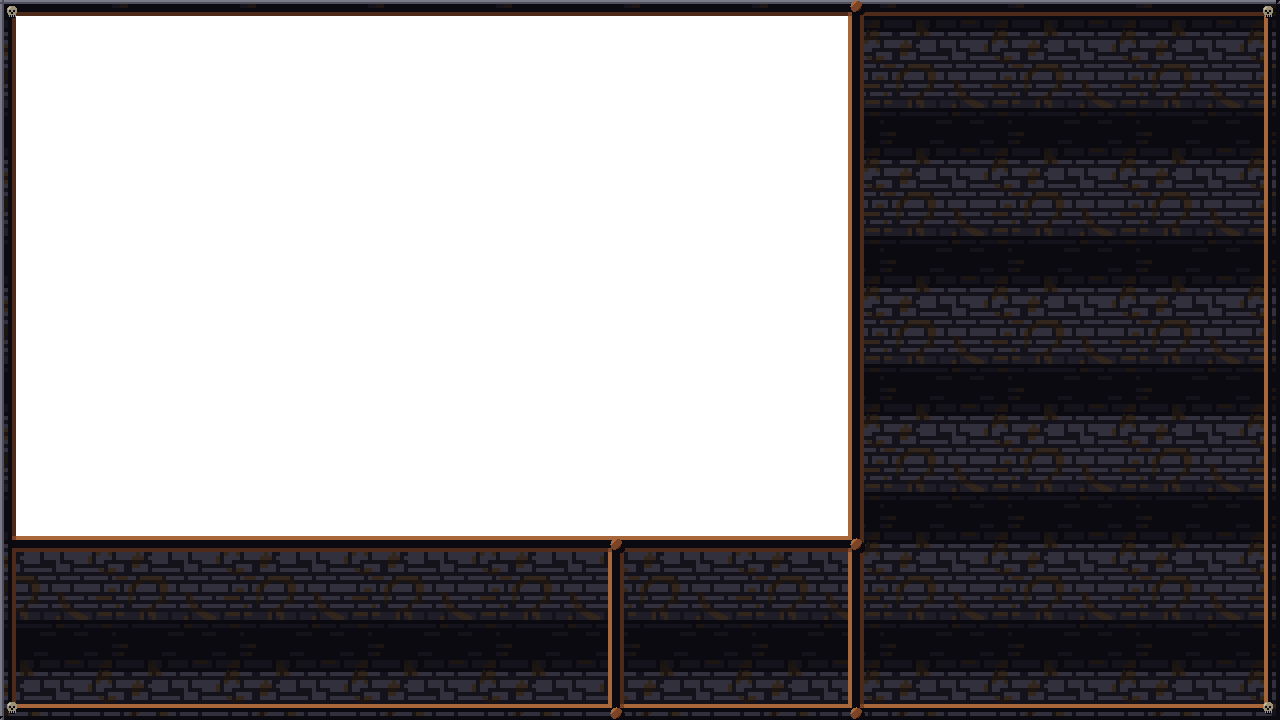
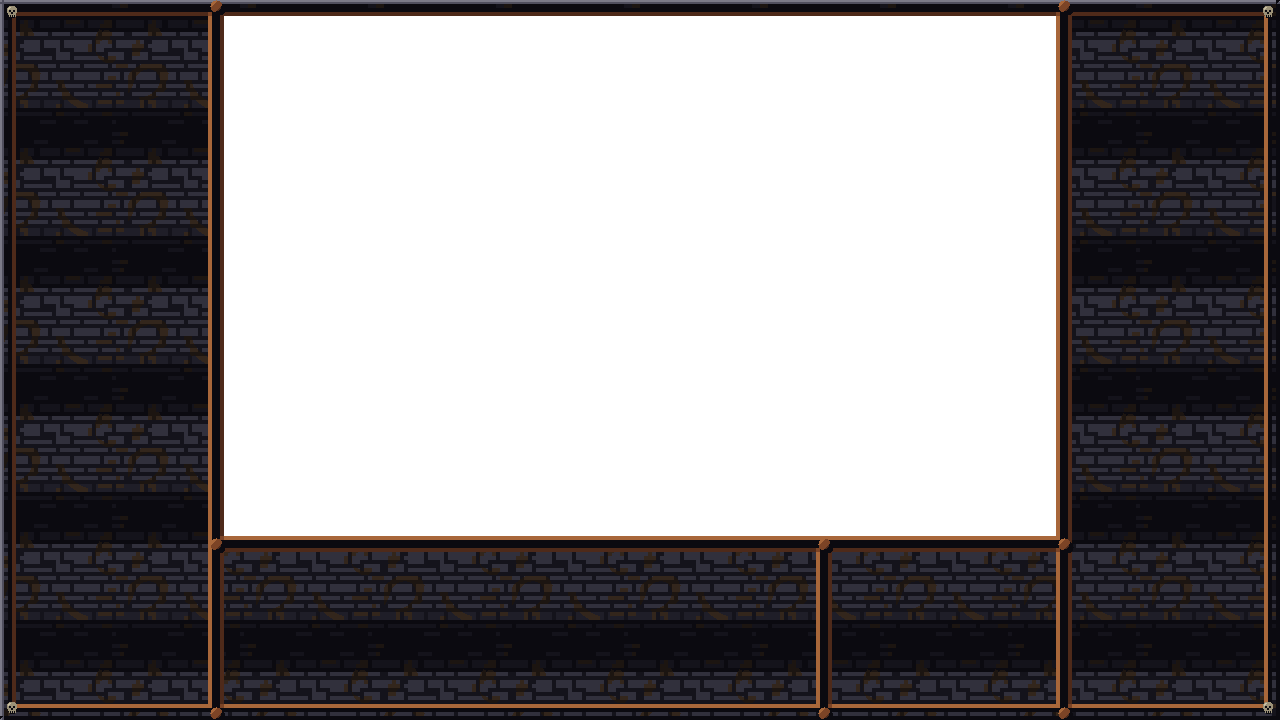
Six-hero screen layout: the 3D view in the middle, three hero panels down each side
ui_layout.gd: VIEW at 112,8 (same 416x260), log and arrows under it, PARTY_LEFT and PARTY_RIGHT columns, PARTY_SLOTS 6, panel_rect(pos) (even positions left, odd right; the front row is the top pair). Party panels are 96x112: name across the top, portrait (52), bars and quick slots (26) on the left, the two hands (36) stacked on the right; positions 4 and 5 are empty panels, the party is still four heroes and Party is unchanged. The spell list opens beside its caster's panel. Stone frame and wooden frame redrawn for the new rectangles; corner map moved with the view. PixelLab mock-ups noted in the asset log. Docs.

Changed region(s): [[0.625, 0.0, 0.8438, 1.0], [0.0, 0.0, 0.1875, 1.0], [0.4688, 0.7333, 0.5, 1.0]]

diff --git a/tools/art/gen_frame_hd.py b/tools/art/gen_frame_hd.py
@@ -18,10 +18,11 @@ from palette import PAL
 K = 2                                   # Canvas units to texture pixels.
 W, H = 640 * K, 360 * K
 # scripts/ui_layout.gd's rectangles (x, y, w, h), canvas units.
-VIEW = (8, 8, 416, 260)
-LOG = (8, 276, 296, 76)
-ARROWS = (312, 276, 112, 76)
-PARTY = (432, 8, 200, 344)
+VIEW = (112, 8, 416, 260)
+LOG = (112, 276, 296, 76)
+ARROWS = (416, 276, 112, 76)
+PARTY_LEFT = (8, 8, 96, 344)            # The six-hero layout: a column of three hero panels each side of the view.
+PARTY_RIGHT = (536, 8, 96, 344)
 RING = 4                                # Each ring of a window's lip, in pixels.
 INK = PAL["ink"]
 TILE = Path(__file__).parent / "pieces" / "frame_stone_128.png"
@@ -130,14 +131,16 @@ def frame():
     panel = img.copy()  # The recessed panels' floor is the same blackened brick.
     recess(img, ARROWS, panel)
     recess(img, LOG, panel)
-    recess(img, PARTY, panel)
+    recess(img, PARTY_LEFT, panel)
+    recess(img, PARTY_RIGHT, panel)
     recess(img, VIEW, None)
     outer_bevel(img)
     # Studs at the T-junctions of the dividers (the corners get skulls).
-    x_div = (VIEW[0] + VIEW[2] + PARTY[0]) // 2 * K          # Between the view and the party well.
+    x_div = (VIEW[0] + VIEW[2] + PARTY_RIGHT[0]) // 2 * K    # Between the view and the right party well.
+    x_left = (PARTY_LEFT[0] + PARTY_LEFT[2] + VIEW[0]) // 2 * K  # Between the left party well and the view.
     y_div = (VIEW[1] + VIEW[3] + LOG[1]) // 2 * K            # Between the view and the log.
     x_mid = (LOG[0] + LOG[2] + ARROWS[0]) // 2 * K           # Between the log and the arrows.
-    for cx, cy in ((x_div, 6), (x_div, H - 7), (x_div, y_div), (x_mid, y_div), (x_mid, H - 7)):
+    for cx, cy in ((x_div, 6), (x_div, H - 7), (x_div, y_div), (x_left, 6), (x_left, H - 7), (x_left, y_div), (x_mid, y_div), (x_mid, H - 7)):
         rivet(img, cx, max(cy, 6) if cy < 20 else min(cy, H - 7))
     for x0, y0 in ((6, 6), (W - 18, 6), (6, H - 18), (W - 18, H - 18)):
         skull(img, x0, y0)

diff --git a/tools/art/gen_frame_wood.py b/tools/art/gen_frame_wood.py
@@ -26,7 +26,8 @@ from palette import PAL
 
 K = 2
 W, H = 640 * K, 360 * K
-VIEW = (8, 8, 416, 260)               # scripts/ui_layout.gd, canvas units.
+VIEW = (112, 8, 416, 260)             # scripts/ui_layout.gd, canvas units.
+ORIGIN = (VIEW[0] - 8, VIEW[1] - 8)   # Where the 432x276 canvas (the view and its 8 unit surround) sits on the screen.
 CW, CH = 432, 276                     # The view and its surround, canvas units.
 PIECES = Path(__file__).parent / "pieces" / "frame_wood"
 THICK = 16
@@ -180,11 +181,12 @@ def frame_wood(seed=SEED):
         stack += [(x + 1, y), (x - 1, y), (x, y + 1), (x, y - 1)]
     xs, ys = [x for x, _ in seen], [y for _, y in seen]
     box = (min(xs), min(ys), max(xs) + 1, max(ys) + 1)
+    box = (box[0] + ORIGIN[0], box[1] + ORIGIN[1], box[2] + ORIGIN[0], box[3] + ORIGIN[1])
     assert box[0] >= VIEW[0] and box[1] >= VIEW[1] and box[2] <= VIEW[0] + VIEW[2] and box[3] <= VIEW[1] + VIEW[3], box
     print("opening", box, "of the view", (VIEW[0], VIEW[1], VIEW[0] + VIEW[2], VIEW[1] + VIEW[3]))
     big = img.resize((CW * K, CH * K), Image.NEAREST)
     out = Image.new("RGBA", (W, H))
-    out.paste(big, (0, 0))
+    out.paste(big, (ORIGIN[0] * K, ORIGIN[1] * K))
     return out
 
 

diff --git a/CLAUDE.md b/CLAUDE.md
@@ -10,7 +10,7 @@ A first-person, grid-based dungeon crawler in the style of Eye of the Beholder, 
 
 - **Base resolution is 640x360** (`project.godot`: `stretch/mode = canvas_items` (it was `viewport` until the hires move, now merged), `scale_mode = integer`, default canvas texture filter nearest, window override 1280x720). The window scales it by whole numbers only (1280x720, 1920x1080, 2560x1440; a window that isn't an exact multiple gets even letterbox bars), so pixels are never blurred or uneven.
 - **HIRES RENDERING (the 1280x720 move, merged into `main` from the `hires-720` branch):** the UI is still laid out in 640x360 units, but `canvas_items` stretch draws every 2D thing (frame, panels, text, icons) at the window's whole-number scale k (2 at 1280x720, 3 at 1080p, 4 at 1440p) with real, sharp pixels, and `scripts/ui_scale.gd` makes the 3D view's SubViewport render at k times 416x260 (832x520 at k = 2) by sizing its container k times larger and drawing it at 1/k. Mouse positions stay in 640x360 units. `UiScale.factor(tree)` is the scale; `view_scale` metadata on the SubViewport holds it; `enemy_bars.gd` divides by it and its layer is scaled by it. Art made for more pixels is shown at 1/k of its pixel size in UI units (a 96 px icon in a 48 unit box) and lands 1:1. The art itself is still the old art (nothing was regenerated in step 1). The main menu's 3D backdrop is hidden (title picture instead) and was not converted.
-- **The dungeon view is a `SubViewport` rendered at the size it is shown, 416x260 (1:1, `VIEW_SCALE` 1)** (the logical size; the SubViewport itself renders at k times that, see above), in the top-left (`ui_layout.gd`: `VIEW_SOURCE`, `VIEW_SCALE`, `VIEW`, 416x260 at 8,8), with nearest filtering. It used to be rendered at 208x130 and enlarged 2x (chunky 2x2 pixels); it was doubled so monsters and textures can carry twice the detail. A skeleton standing one tile ahead is about **150 screen pixels tall** (the 64-art-pixel frame was 76 view px; now the 128-px frame is 152). The dungeon, player and camera live inside it (`View/GameView/Port`, found with `%Player` / `%Dungeon`, or by group); everything else is drawn at the full 640x360 on `CanvasLayer`s above it. The main menu's backdrop is rendered the same way (640x360, 1x).
+- **The dungeon view is a `SubViewport` rendered at the size it is shown, 416x260 (1:1, `VIEW_SCALE` 1)** (the logical size; the SubViewport itself renders at k times that, see above), in the top middle (`ui_layout.gd`: `VIEW_SOURCE`, `VIEW_SCALE`, `VIEW`, 416x260 at 112,8; it was at 8,8 until the six-hero layout), with nearest filtering. It used to be rendered at 208x130 and enlarged 2x (chunky 2x2 pixels); it was doubled so monsters and textures can carry twice the detail. A skeleton standing one tile ahead is about **150 screen pixels tall** (the 64-art-pixel frame was 76 view px; now the 128-px frame is 152). The dungeon, player and camera live inside it (`View/GameView/Port`, found with `%Player` / `%Dungeon`, or by group); everything else is drawn at the full 640x360 on `CanvasLayer`s above it. The main menu's backdrop is rendered the same way (640x360, 1x).
 - **UI art is drawn at 2x**: each logical art pixel is a 2x2 block (the dungeon view is no longer the same pixel size: it is finer). The generators draw on the small logical grid and enlarge it by `scale` (`artio.save_png(..., scale=2)`; `python tools/art/build_all.py --scale 2`, the default; generators whose `build()` takes `scale`: frame, ui, portraits, items). **3D art has its own scale, `--world-scale` (default 2, `artio.world_scale()`, env `ART_WORLD_SCALE`)**: the wall/floor/ceiling/door/plate/stairs tiles are 128x128 and the monster frames 96x128 (skeleton, guard) / 96x96 (slime, acid slime), enlarged nearest-neighbour from the procedural grid, and **monster `pixel_size` is halved in the `.tres` files (skeleton 0.014, slime 0.02) so they keep their world size**; if you change the world scale, change those too. The variant monsters are made by hand: `gen_skeleton.py --seed 7 --bone ash --weapon axe --helmet --name skeleton_guard` and `gen_slime.py --seed 5 --colour acid --contents skull --name slime_acid` (`build_all` does not run them). The item floor sprites (48x48), torch, lever and key sprites are NOT doubled. Place UI at **even pixel coordinates** so its 2x2 blocks line up with the frame's. Text is Press Start 2P at 8 or 16 (a project-wide default font, `gui/theme/custom_font`).
 - **Display modes** (`display_manager.gd`, the `DisplayManager` autoload in `project.godot`; `Settings.fullscreen`, saved under `[display]` in `user://settings.cfg`): the game starts in **borderless fullscreen** (`Window.MODE_FULLSCREEN`, not exclusive) unless the saved choice is windowed. Alt+Enter toggles at any time (the autoload runs while paused), as does the Options button, which listens to `mode_changed`. Windowed opens at the largest whole multiple of 640x360 that fits the screen's usable area including the title bar (`DisplayManager.best_scale(usable, extra)`, measured after a frame because the decorations only exist then), centred. Leftover screen is black bars in both modes (integer scale; the engine's own transform maps clicks, bars included, so no input code was needed). Nothing happens under `--headless`. In a `-s` SceneTree test, autoloads join the tree *after* `_init`, so `await process_frame` before using `root.get_node("DisplayManager")`; tests of display switching must set `Settings.path` to a temp file first, and run windowed (not headless).
 - Mouse positions are in the 640x360 space everywhere. The 3D view's clicks come from the `SubViewportContainer`'s `gui_input` (`game_view.gd`, which calls `Player.world_click`), not from input forwarded into the SubViewport, so they too are screen coordinates (tested pixel by pixel at the view's corners and edges, with and without black bars). Clicks pick up or put down the item on the tile in front wherever they land in the view; monsters are not clickable (heroes attack through their hand buttons).
@@ -112,7 +112,7 @@ So the overlay, HUD and level-complete scenes can be deleted from `main.tscn` wi
 
 **News goes through the event bus** (`scripts/game_events.gd`, the autoload `GameEvents`: signals only, no logic; `docs/code_review.md` step 1). `call_group` is for commands ("do this"); the bus is for "this happened", so banter, XP, puzzles and legendary items can listen without the sender knowing them. Signals: `monster_killed(def, cell, killer)`, `hero_died(hero)`, `hero_revived(hero, by_scroll)`, `item_picked_up(def, count)`, `door_unlocked(cell)`, `lever_pulled(cell, side, on)`, `wall_broken(cell)`, `wall_purified(cell)`, `puzzle_solved(id)`, `level_completed`; `hero_hurt(hero, amount, source)`; `fight_started` and `fight_ended` (from the fight tracker, below); `mana_low(hero)` (a hero tried to cast and could not afford it). A hero is always their `hero_index` (-1: nobody). Each is sent from the one place the thing happens, with `Events.send(get_tree(), "name", [args])` (`const Events := preload("res://scripts/game_events.gd")`; quiet if the autoload is missing), and **never while a save is loading** (`restore_broken_walls` and `_purify(cell, false)` put walls back silently). A monster learns its killer from `by` in the result passed to `Monster.take_hit` (every `Party` attack sets it). Listen with `get_node("/root/GameEvents").monster_killed.connect(...)` in `_ready`. Nothing listens yet. A new kind of news is a new signal there plus one `send`, and a check in `tests/smoke_test.gd`.
 
-**Screen layout** (`ui_layout.gd`, the one place the rectangles live): the classic Eye of the Beholder arrangement on the 640x360 screen -- the 3D view top-left (`VIEW`, 416x260 at 8,8, a 416x260 SubViewport at 1x), the party at the right (`PARTY`, 2x2 panels of 98x170), the message log (`LOG`, 296x76, about four lines) and the movement arrows (`ARROWS`) along the bottom -- inside a stone frame. **`tools/art/gen_frame.py` draws `art/ui/frame.png` from the same rectangles (kept there in logical pixels, half of these: change both) and the 3D view window is the only transparent part of it**; a test checks the hole is exactly `VIEW`. The frame (`ui_frame.gd`, canvas layer 4) sits over the SubViewport's layer (1); the HUD layers are log 5, arrows and party 6, then debug overlay, inventory, cursor, end screens. World clicks (item pickup) come from `GameView`'s `gui_input` and call `Player.world_click`, so the frame and panels never pick things up. **Movement arrows** (`move_arrows.gd`, six 32x32 buttons from `gen_frame.py`) call `Player.command(kind)`, the same path the W/A/S/D/Q/E keys use; they act on `button_down` (a quick tap can't fall between frames) and repeat while held; the player ignores a command while a step is animating. **The message log** (`hud.gd`) is a history, newest line brightest, trimmed to 40 lines; `show_message(text)` appends, `show_message(text, true)` and `clear_message(only_if)` use the one-line status row under the log (item name on hover, "Heal whom?"); `Hud.last_message`/`last_tone`/`lines` are what to read in tests, `message` is only the status row. **Party panels** (`party_hud.gd`): 64x64 portraits (the art's own size), two 28x28 quick slots under them, 32x32 hand buttons (`hand_sword_small.png`), bars 6/4/4 px; content margins are 6/4/4/4 so every element lands on an even pixel; the portrait is centred by anchors, so shake tweens must return to its remembered `rest_x`, not 0. **Item icons come in three sizes**: `icon` (48x48, inventory and cursor), `hud_icon` (24x24, hand and quick slots, `ItemDef.hud_texture()`), `floor_icon` (48x48 -- the same drawing as `icon` -- the 3D sprite, not enlarged; `icon_pixel_size` is 0.01 so it keeps the world size the old 12x12 version had (the key too: 48x48 icon and floor sprite, 0.01; a forced procedural rebuild would put the old 32x32 key back, so leave imported art alone). The magic items (Scroll of Magic Missile, spellbook, holy symbol) carry a faint curse-green aura drawn round their silhouette (`curse_700` ring, dithered `moss_700` outside it); `gen_items.holy_symbol_glow` ignores it. Don't trust a `resized` signal for the first layout of an anchored child (the buff ring missed it): anchor children to fill instead. Overlays (inventory, character sheet, spell menu, end screens, main menu) are laid out natively at 640x360 with 2x-sized constants; a `CanvasLayer` `scale` was tried and rejected (full-rect Controls keep the full 640x360 size under it).
+**Screen layout** (`ui_layout.gd`, the one place the rectangles live). **THE SIX-HERO LAYOUT (14 Nov 2026) replaced the arrangement described in the rest of this paragraph and wherever older notes say the party is "at the right" in a 2x2 grid:** the 3D view is in the middle (`VIEW`, 416x260 at 112,8, the same size as before), the log (`LOG`, 112,276) and arrows (`ARROWS`, 416,276) under it, and a column of three hero panels down each side (`PARTY_LEFT` 8,8 and `PARTY_RIGHT` 536,8, each 96x344; `PARTY_SLOTS` 6; `UiLayout.panel_rect(pos)`: even positions down the left, odd down the right, so the front row, positions 0 and 1, is the top pair; `UiLayout.on_left(pos)`). The game still has four heroes, so positions 4 and 5 are empty panels (`party_hud._make_empty_panel`); nothing in `Party` changed. A panel is 96x112 (`UiLayout.PANEL_SIZE`): the name across the top, then on the left the portrait (52x52, scaled from the 128 art, so not pixel-exact), HP and mana bars and the two quick slots (26x26), and on the right the two hand buttons (36x36) one over the other. `%Panels` is a plain full-screen `Control` and each panel is placed by hand. The spell list opens beside its caster's panel, on the view's side. The corner map is at 404,38 to 516,126. `gen_frame_hd.py` and `gen_frame_wood.py` carry the same rectangles (the old 1x `gen_frame.py` does not and is stale). The older text: the classic Eye of the Beholder arrangement on the 640x360 screen -- the 3D view top-left (`VIEW`, 416x260 at 8,8, a 416x260 SubViewport at 1x), the party at the right (`PARTY`, 2x2 panels of 98x170), the message log (`LOG`, 296x76, about four lines) and the movement arrows (`ARROWS`) along the bottom -- inside a stone frame. **`tools/art/gen_frame.py` draws `art/ui/frame.png` from the same rectangles (kept there in logical pixels, half of these: change both) and the 3D view window is the only transparent part of it**; a test checks the hole is exactly `VIEW`. The frame (`ui_frame.gd`, canvas layer 4) sits over the SubViewport's layer (1); the HUD layers are log 5, arrows and party 6, then debug overlay, inventory, cursor, end screens. World clicks (item pickup) come from `GameView`'s `gui_input` and call `Player.world_click`, so the frame and panels never pick things up. **Movement arrows** (`move_arrows.gd`, six 32x32 buttons from `gen_frame.py`) call `Player.command(kind)`, the same path the W/A/S/D/Q/E keys use; they act on `button_down` (a quick tap can't fall between frames) and repeat while held; the player ignores a command while a step is animating. **The message log** (`hud.gd`) is a history, newest line brightest, trimmed to 40 lines; `show_message(text)` appends, `show_message(text, true)` and `clear_message(only_if)` use the one-line status row under the log (item name on hover, "Heal whom?"); `Hud.last_message`/`last_tone`/`lines` are what to read in tests, `message` is only the status row. **Party panels** (`party_hud.gd`): 64x64 portraits (the art's own size), two 28x28 quick slots under them, 32x32 hand buttons (`hand_sword_small.png`), bars 6/4/4 px; content margins are 6/4/4/4 so every element lands on an even pixel; the portrait is centred by anchors, so shake tweens must return to its remembered `rest_x`, not 0. **Item icons come in three sizes**: `icon` (48x48, inventory and cursor), `hud_icon` (24x24, hand and quick slots, `ItemDef.hud_texture()`), `floor_icon` (48x48 -- the same drawing as `icon` -- the 3D sprite, not enlarged; `icon_pixel_size` is 0.01 so it keeps the world size the old 12x12 version had (the key too: 48x48 icon and floor sprite, 0.01; a forced procedural rebuild would put the old 32x32 key back, so leave imported art alone). The magic items (Scroll of Magic Missile, spellbook, holy symbol) carry a faint curse-green aura drawn round their silhouette (`curse_700` ring, dithered `moss_700` outside it); `gen_items.holy_symbol_glow` ignores it. Don't trust a `resized` signal for the first layout of an anchored child (the buff ring missed it): anchor children to fill instead. Overlays (inventory, character sheet, spell menu, end screens, main menu) are laid out natively at 640x360 with 2x-sized constants; a `CanvasLayer` `scale` was tried and rejected (full-rect Controls keep the full 640x360 size under it).
 
 **Grid movement** (`player.gd`): input is polled in `_process`; a step or turn is a 0.2 s tween and input is ignored while it runs. Logical position (`cell`, `facing`) changes at the *start* of a move, and `_report_position()` publishes it via `DungeonMap.player_cell` plus a `refresh` call. F is edge-triggered (a held key must not repeat a lever pull). Facing indices: 0 N, 1 W, 2 S, 3 E (increasing = turning left).
 
@@ -190,7 +190,7 @@ So the overlay, HUD and level-complete scenes can be deleted from `main.tscn` wi
 
 **Test room** (`levels/test_room.gd`, tools in `scripts/debug/test_room_tools.gd`, wall signs in `scripts/wall_signs.gd`; **debug builds only**): **KEEP IT UP TO DATE: when you add a new system, add a station for it to the test room (a room off the hall in `levels/test_room.gd` with a `SIGNS` label and a `STATIONS` teleport entry, a debug key in the tools if it needs one, a check in `tests/test_room_test.gd`), and flip its "NOT BUILT YET" station to a working one.** F12 (any time in the game) or the main menu's TEST ROOM button loads it; F12 in the room goes back to a fresh floor 1. The level format is floor 1's: `DungeonMap`'s level fields (`MAP`, `TORCHES`, `ITEMS`, `MONSTERS`, `SIGNS`...) are `static var`s, and `DungeonMap.use_level(path)` copies the consts of a level script over them (`use_level("")` restores floor 1; the main menu's backdrop and loading a save both reset it). Two fields exist only for it: `AMBUSHES` (trigger tile that spawns monsters, a stand-in until a real ambush system exists) and `STATIONS` (what T teleports to); `SIGNS` is a game feature (`wall_signs.gd`, a plaque plus a Label3D, a **placeholder look**: listed in `docs/asset_log.md`). Layout: a long hall (rows 12-16) with a station through each doorway. North: combat arena (the four monsters), wall types (normal, destructible, corrupted, each labelled; the secret wall is a "not built yet" stub), item table (one of every file in `data/items`, **add new items to `ITEMS` there**; a small pile right in front of its station to right-click for the loot pop-up's Take all); on arrival every item in `data/items` is also put in the heroes' backpacks (one of each, full stacks, shared round the party; `test_room_tools._stock_backpacks`), legendary items (empty). South: ambush corridor (with an arch for testing shadows), puzzle room (pressure plate and lever both hold a door open; braziers and altar are signs only), campfire (empty: no campfire or firewood yet), XP and levels (empty), traps (a bear trap already armed, one to pick up, and a skeleton to lure onto it). Off the pacing corridor: the light room ("Light and dark": no wall torches, torches and candles to pick up, a slime that fears fire). **Debug keys** (only in the room; **H** toggles the help overlay that lists them with their state): G god mode (`Party.god_mode`), R refill HP and mana, X +500 XP and U level up (call `Party.add_xp` / `Party.level_up_party` when those exist; the log says "no XP system yet" until then), Z kill all monsters, V spawn a monster in front (pop-up list of `data/monsters`, each with its tier), minus plays the next monster's hit effect, = burns every lit light down to its last 10 seconds, T teleport to a station (pop-up list), B banter (`Banter.enabled`), N fog, J screen shake, P shadows, and for the **Monster pacing** station (a long corridor south of the XP room opening into an open room) I a pack of three skeletons ahead, 9 holds the monster in front (no roll, no mana) and 0 frees every held monster (the **Held monster** station south of the pacing room has a skeleton, a guard and a slime), O picks a pacing value, [ and ] lower or raise it by 0.1 s on every monster kind (the loaded MonsterDefs), Y back to the files (none of these is saved); the overlay also shows the fight tracker's state and a table of every kind's pacing. Pop-ups go through the pop-up layer. The room cannot be saved (`SaveGame.save` refuses). **Release exports leave it out**: `export_presets.cfg` `exclude_filter="levels/*, scripts/debug/*, tests/*"`, and nothing in the game preloads those files (`DungeonMap.test_room_available()` is false in a release build or when the files are missing; `game_view.gd` loads the tools by path). The full-screen map shrinks its cells to fit a big level (`automap.cell_px`). Test: `timeout 120 "$G" --headless --path . -s tests/test_room_test.gd` (level data reachable and valid, signs built, every debug key, the ambush, saving refused).
 
-**Pop-ups** (`popup_layer.gd`, node `Popups` in `main.tscn`, canvas layer `UiLayout.POPUP_LAYER` 16, group `"popups"`): **every pop-up or menu goes through `open_popup(control, func(size): return preferred_top_left)` and is never added to a HUD node**, so it is always above the minimap overlay (10), inventory (11) and held item (15) and below only the full-screen map (18), pause menu (19) and end screens. It sizes the pop-up, then places it at the preferred spot if that is fully on screen and clear of every visible node in group `"popup_avoid"` (the minimap), else straight below, then to the left of, each such rectangle (`best_position`/`around`, pure and tested), else wherever it overlaps least; and it calls `set_dimmed(true)` on the `popup_avoid` nodes while any pop-up is open (the minimap goes to 55% brightness). The spell list (`spell_menu.gd`: the PixelLab iron-bound frame `art/ui/spell_frame.png` as a nine-patch, a "SPELLS / MANA n" header with a rust rule, and rows of PixelLab icon `art/spells/icons/<spell file name>.png` + name + mana cost in torch gold, the hovered row marked by a gold bar, unaffordable rows greyed; art from `tools/art/gen_spell_menu.py`) (`party_hud._open_menu`) and the loot pop-up (`loot_menu.gd`, below) are the pop-ups so far (preferred: left of the party grid, level with the hero's hands, so a top-row hero's list opens below the minimap); Godot's own tooltips are drawn by the engine above every layer. Opening the full-screen map closes any open pop-up (`party_hud.cancel_casting`). **Test:** `timeout 120 "$G" --headless --path . -s tests/popup_layout_test.gd` (the first committed game test: layering, all four hero positions fully on screen and clear of the minimap, dimming, minimap hidden, full-screen map).
+**Pop-ups** (`popup_layer.gd`, node `Popups` in `main.tscn`, canvas layer `UiLayout.POPUP_LAYER` 16, group `"popups"`): **every pop-up or menu goes through `open_popup(control, func(size): return preferred_top_left)` and is never added to a HUD node**, so it is always above the minimap overlay (10), inventory (11) and held item (15) and below only the full-screen map (18), pause menu (19) and end screens. It sizes the pop-up, then places it at the preferred spot if that is fully on screen and clear of every visible node in group `"popup_avoid"` (the minimap), else straight below, then to the left of, each such rectangle (`best_position`/`around`, pure and tested), else wherever it overlaps least; and it calls `set_dimmed(true)` on the `popup_avoid` nodes while any pop-up is open (the minimap goes to 55% brightness). The spell list (`spell_menu.gd`: the PixelLab iron-bound frame `art/ui/spell_frame.png` as a nine-patch, a "SPELLS / MANA n" header with a rust rule, and rows of PixelLab icon `art/spells/icons/<spell file name>.png` + name + mana cost in torch gold, the hovered row marked by a gold bar, unaffordable rows greyed; art from `tools/art/gen_spell_menu.py`) (`party_hud._open_menu`) and the loot pop-up (`loot_menu.gd`, below) are the pop-ups so far (preferred: beside the caster's panel on the view's side, level with the panel's top; the pop-up layer moves it clear of the minimap); Godot's own tooltips are drawn by the engine above every layer. Opening the full-screen map closes any open pop-up (`party_hud.cancel_casting`). **Test:** `timeout 120 "$G" --headless --path . -s tests/popup_layout_test.gd` (the first committed game test: layering, all four hero positions fully on screen and clear of the minimap, dimming, minimap hidden, full-screen map).
 
 **Hit direction** (a blow from behind or the side is felt from that side; every number is in the "Hit direction" group of `data/spell_effects.tres`). `Party.side_of(cell)` says "front", "behind", "left" or "right" for the way the party faces and `_reachable_from` uses it (behind hits positions 2 and 3, left 0 and 2, right 1 and 3). `take_hit_from` sets `last_hit_side` and, on a landed blow, emits `hit_from(side, slot, damage)` after `hero_hit`: `CombatFeel._on_hit_from` calls `jolt(offset, seconds)` (moves `camera.position`, away from the attacker: forward for behind) and `shake_by(strength, seconds, direction)` (a shake along a screen line); `direction_warning.gd` (node `DirectionWarning`, canvas layer 2, between the view and the frame) draws banded red on that edge of the view; the HUD's full-view red flash is now for front hits only. Sounds go through `Audio.play_from(sound, side)`: buses `SFX Left` / `SFX Right` (panner) and `SFX Behind` (low-pass, because stereo has no behind), made on first use and sent to `SFX`; the monster's attack sound comes through `Party.cue_attack_from`. The first landed hit from behind each fight says "Something's behind you!" and fires banter event `hit_behind` (Mage); the warning is once a fight (`Party.fight.behind_warned`, not saved; the fight tracker below says when a fight is over). Reduce flashing stops the jolt and shake and makes the glow one steady, dimmer fade.
 
@@ -204,7 +204,7 @@ So the overlay, HUD and level-complete scenes can be deleted from `main.tscn` wi
 
 **Free fixes from the second art check:** `gen_wall_decor.match_tone` gives stone variants 2 to 4 stone 1's colour distribution (rank by brightness, hand out stone 1's colours), so all four share one cold grey and the structure stays their own; `regrade_items.lift_and_rim` lifts the dark pixels one palette step and adds a pale `bone_500` rim on the lit top-left edge of the floor sprites in `LIFT_FLOOR` (mace, key, darts, spellbook, dried meat, withered apple, holy symbol, war hammer, leather armour), taking them from about 2:1 to 2.6-3.3:1 at two tiles; the torches and the cold ambient in `main.tscn` and `dungeon_builder.gd` were cooled again (a lit corridor's red/blue went 1.65 to 1.40). Re-run both generators after changing stone pieces or item art.
 
-**Hand buttons are 40x40 and quick slots 36x36** (the party panel's height is full: the cooldown bar is gone, shown as a clock wipe over each hand button, `handslot_sweep.png`; row gap 1, margins 3, mana bar 3 px). The five weapon `*_hud` icons are native 32x32 (`tools/art/pieces/items32/`, listed in `NATIVE32` in `regrade_items.py` so the outline pass skips them); the other items' icons are still 24x24 and sit centred.
+**Hand buttons are 36x36 and quick slots 26x26 since the six-hero layout (they were 40x40 and 36x36)** (the party panel's height is full: the cooldown bar is gone, shown as a clock wipe over each hand button, `handslot_sweep.png`; row gap 1, margins 3, mana bar 3 px). The five weapon `*_hud` icons are native 32x32 (`tools/art/pieces/items32/`, listed in `NATIVE32` in `regrade_items.py` so the outline pass skips them); the other items' icons are still 24x24 and sit centred.
 
 **Party panel pixel density** (the portraits are 1 art pixel per screen pixel, so everything on the panel is drawn that way; see `docs/art_style.md`): `gen_ui.bevel_frame` draws `quickslot.png`/`quickslot_empty.png` (28x28) and `handslot.png` (32x32, shown behind each hand button by `party_hud._make_hand` with `show_behind_parent` so child 0 stays the stack count), `name_scroll_native` the 16x16 scroll, `digit_sheet_native` the stack digits (same 100x14 sheet), `hand_empty` the faint sword in an empty hand; names get a 1 px ink font shadow in `_label`. The 2x-block art left: frame, arrows, sweep, inventory.
 
@@ -214,7 +214,7 @@ So the overlay, HUD and level-complete scenes can be deleted from `main.tscn` wi
 
 **Hires monsters and walls (the hires move, step 2):** `tools/art/gen_monster_sheets_hd.py <monster>` builds a monster's sheet from per-frame PixelLab files in `tools/art/pieces/monsters_hd/<monster>/<anim>_<i>.png` (snaps to the palette, writes the sheet, `hframes`, the frame lists, the fps and **`pixel_size`, chosen so the monster keeps the old world height**: skeleton 1.484, guard 1.68, slime 1.42, acid 1.70). Skeletons are 256x256 frames from `create_character` (v3, 256, full body) animated with `animate_character` in `skeleton-v3` mode (3 generations per clip, south only; idle `breathing-idle` 4 frames, attack `cross-punch` 6 or a `chop` move 9, hurt `taking-punch` 6, walk `walking-8-frames` 8); slimes are 192x192 images from `create_image_pixflux` with an init image (the old idle frame doubled; init strength 110 redesigns and adds the most detail, 250 keeps the old look) animated with `animate_image_pixminimax` (idle 8, attack 12, hurt 8, walk 8 frames; the output has one more, the input frame). Facing south only; the monster sprite is a billboard. Walls: `gen_wall_decor.py` uses `pieces/walls256/stone_1..4.png` (256) when all four exist (img2img of the old 128 tiles at init strength 250; text-only 256 tiles came out near black, framed or not seamless), and `grime` is drawn at the same size. **The floor, ceiling (`gen_hd_floor_ceiling.py`, text-only 256 pictures re-toned onto the old colours) and the decals (`pieces/decals256/`, img2img at init strength 90; strength 200 only returned doubled copies) are 256 art too, and `wall_decor.PIXEL` is now 2/256. The doors, cracked wall and corrupted wall are 256 too (`gen_hd_tiles.py`), and the floor is big slabs (a mirrored 128 crop of a PixelLab picture, `floor_large_raw.png`). Still 128 art: the pressure plate, stairs, portcullis, and the unused `rune_panel` and `hidden_button` decals.** The normal maps for the 256 stones use `--blur 2.2`.
 
-**Wooden frame round the 3D view** (`tools/art/gen_frame_wood.py` -> `art/ui/frame_wood.png`, 1280x720, transparent outside the ring and inside its opening; `ui_frame.gd` draws it over `frame.png`): built from separate PixelLab pieces in `tools/art/pieces/frame_wood/` (four different 80x80 skull corners, a 192x16 oak plank tiled into four 16-unit bars, 64x32 tentacle wraps and slime drips scattered at seeded random places along the bars, `--seed N` for another arrangement), colours put on the palette (slime to the `curse_*` greens, wood darkened onto the wood ramp), enlarged 2x. Corners are aligned by the centre lines of their planks to the bars. **The frame is thin: the opening is about 400x244 units of the 416x260 3D view** (the generator asserts it lies inside VIEW so no stone shows through). The 3D view itself and `frame.png`'s hole are unchanged. Slime is on this frame only, never the party panels. The minimap (`scenes/debug_overlay.tscn`, a higher layer) sits at 300,38 to 412,126 so it clears the top-right skull; move it if the frame changes. After a change: `--import` (`artio.patch_imports()` touches unrelated `.import` files, revert those).
+**Wooden frame round the 3D view** (`tools/art/gen_frame_wood.py` -> `art/ui/frame_wood.png`, 1280x720, transparent outside the ring and inside its opening; `ui_frame.gd` draws it over `frame.png`): built from separate PixelLab pieces in `tools/art/pieces/frame_wood/` (four different 80x80 skull corners, a 192x16 oak plank tiled into four 16-unit bars, 64x32 tentacle wraps and slime drips scattered at seeded random places along the bars, `--seed N` for another arrangement), colours put on the palette (slime to the `curse_*` greens, wood darkened onto the wood ramp), enlarged 2x. Corners are aligned by the centre lines of their planks to the bars. **The frame is thin: the opening is about 400x244 units of the 416x260 3D view** (the generator asserts it lies inside VIEW so no stone shows through). The 3D view itself and `frame.png`'s hole are unchanged. Slime is on this frame only, never the party panels. The minimap (`scenes/debug_overlay.tscn`, a higher layer) sits at 404,38 to 516,126 so it clears the top-right skull; move it if the frame changes. After a change: `--import` (`artio.patch_imports()` touches unrelated `.import` files, revert those).
 
 **Hires portraits and frame (the hires move, step 3):** `tools/art/gen_portraits_hd.py` builds the 128x128 portraits (living from `pieces/portraits_hd/<hero>.png`, the old transparent background keyed back from PixelLab's flat grey; hurt and dead derived by `gen_portraits.hurt_variant` and `cursed_dead_variant`); `party_hud` already scales a portrait to its 64x64 box (`ignore_texture_size`), the inventory strip and character sheet scale theirs, so no code changed. `tools/art/gen_frame_hd.py` draws `art/ui/frame.png` at 1280x720 (rectangles = `ui_layout.gd`'s x 2, lips 4 px rings, 12 px rivets, 12x12 skulls, the view window exactly VIEW x 2); `ui_frame.gd` shows it scaled to the 640x360 canvas (`EXPAND_IGNORE_SIZE`). The movement arrows and the hand and quick slot frames are 2x too (`tools/art/gen_ui_hd.py`: arrows 72x72 from two PixelLab pieces turned and mirrored, slot frames drawn by script; `move_arrows.gd` and the hand frame in `party_hud.gd` scale them to their 36 and 40 unit boxes). Everything else in the UI (the slots' clock-wipe masks, the empty-hand and armour silhouettes, the scroll icon, stack digits, panel and spell frames, item icons, the map art) is still the old resolution.
 

diff --git a/docs/game_overview.md b/docs/game_overview.md
@@ -16,7 +16,7 @@ They can't stand each other but would die for each other. (In data a hero has a 
 Dark, desaturated, cursed (`docs/art_style.md`). Sickly green means the curse and danger. Spells: fire orange, holy gold, arcane pale blue. Torchlight is the only warm colour.
 
 ## Systems built so far
-- Real-time grid movement, first-person 3D view at 416x260 inside a stone frame, 640x360 integer-scaled.
+- Real-time grid movement, first-person 3D view at 416x260 inside a stone frame, 640x360 integer-scaled. Screen layout for six heroes: the view in the middle and three hero panels down each side (the party is still four; two panels are empty).
 - Test room (debug builds only, F12 or the main menu): a hall with stations for combat, an ambush stand-in, a puzzle, each wall type, every item and not-yet-built systems, wall signs and debug keys (god mode, refill, kill all, spawn, teleport, toggles). Add a station when a new system lands.
 - Level 1: doors, locked doors and keys, levers, plates, portcullises, cracked walls, two exits, 14 monsters of five kinds, with a mini-boss, the Cursed Warden, guarding the stairs.
 - Real-time combat with crits and fails, hit direction (hits from behind and the sides), monster swings timed to land with the hit feedback, combat feel. Monster pacing for the step-back dance: monsters move on their own slower clock, pause before following, can't strike the moment they arrive, and queue instead of surrounding the party (one flanker at a time, after a delay); tunable in the test room. Status effects on monsters (data-driven; held so far) and the Mage's Hold Monster spell: rooted for 5 s unless it resists, helpless to crits (the Thief's most), cold blue runes from PixelLab's VFX suite. A rusty bear trap to set on the floor (the Thief sets it fastest): it snaps and holds the first monster to step on it, then can be picked up again. Light and darkness: no light follows the party; a torch or candle takes a hero's hand, burns down only while held (a bar on the hand slot, a PixelLab flame), the dark is a faint cold ambient with monsters and items tinted by the light that reaches them, a torch's fire makes slimes recoil, and a slipped torch burns on the floor where it fell.

diff --git a/docs/asset_log.md b/docs/asset_log.md
@@ -139,3 +139,6 @@ None of these were made with the VFX suite, so they should be replaced.
 **Monster animation sets (existing Creator gallery images, 0 new generations)**
 - `art/monsters/slime_acid/slime_acid_sheet.png` (28 frames of 96x96: idle 5, attack 9, hurt 5, walk 9), built by `tools/art/gen_monster_sheets.py` from the grids in `tools/art/pieces/monsters/slime_acid/` (PixelLab Creator gallery `b4c8d36e` attack, `3d82c59d` idle, `0505e2a8` hurt, `118c63a4` walk; 2026-11-10). Replaces the single-image, script-animated 12-frame sheet.
 - Same set for the other three (2026-11-10, same grids in `tools/art/pieces/monsters/<name>/`): `slime` (idle `f854260f`, attack `3fcd792c`, hurt `3b004ae2`, walk `69ef2f73`; the dark green slime), `skeleton` (the unarmed shambler: idle `6d6a2c1e`, attack `48d5de37`, hurt `b330a027`, walk `fcd9bb46`) and `skeleton_guard` (the armed warrior: idle `5dcd0584`, attack `03c5f44f`, hurt `32efa320`, walk `b1459acd`). All 28 frames each; sizes match the old art (96x128, 96x96), so `pixel_size` is unchanged. The skeletons were taken out of `regrade_items.py` (their own outline now).
+
+**Six-hero screen mock-ups (2026-11-14, 6 generations, not game art)**
+- Six `create_image_pixen` pictures (1 generation each) of a screen with three heroes down each side: four at 640x360 (all came out with the dungeon view doubled, not usable) and two at 320x180 (one usable). Idea sketches only, kept outside the repo; nothing went into `art/`.
